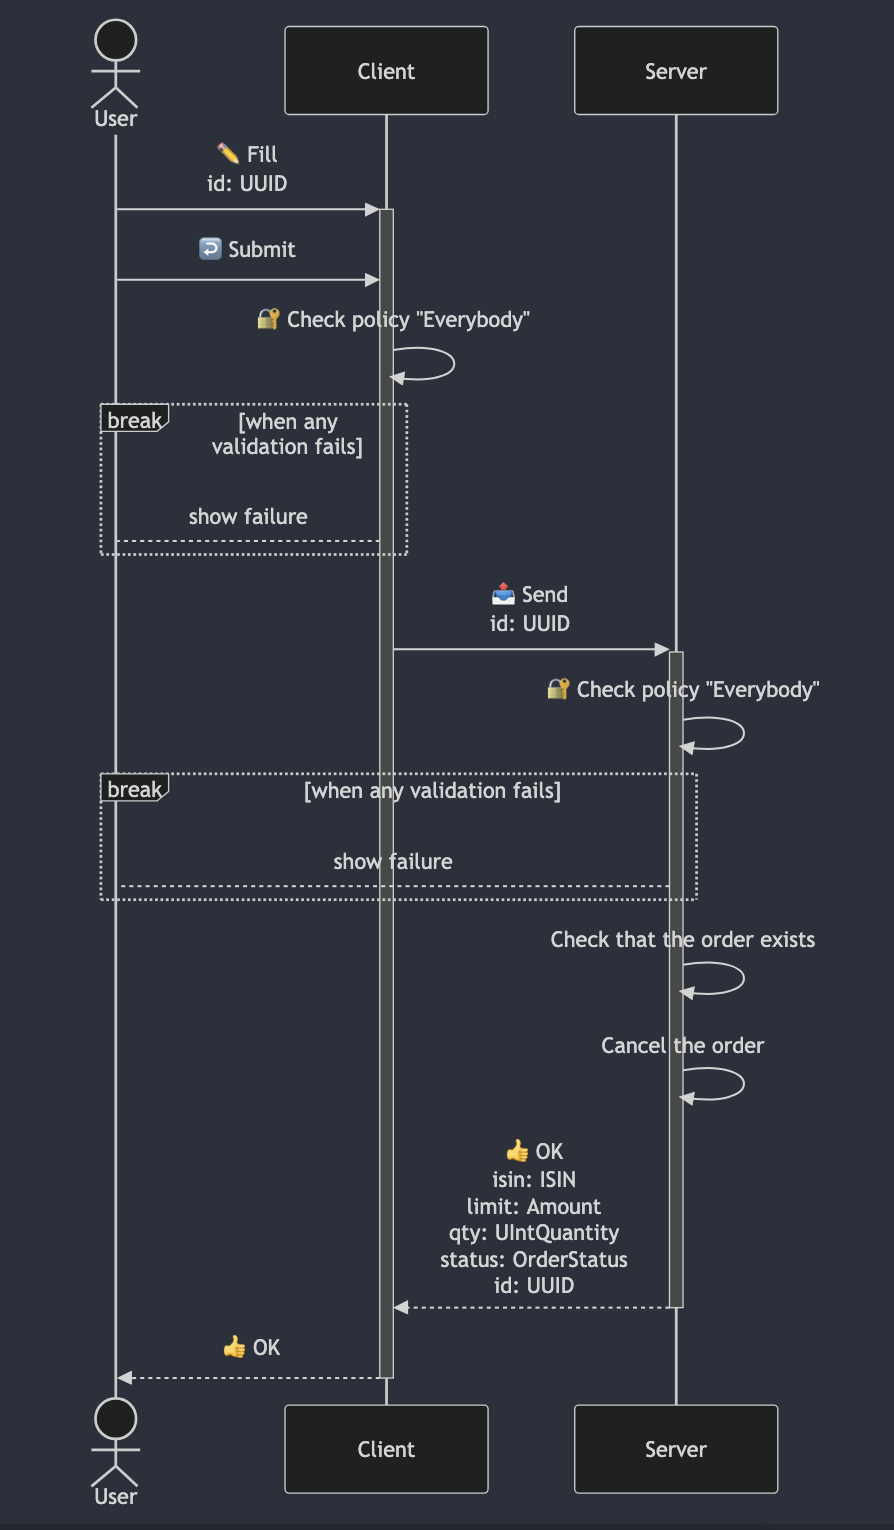
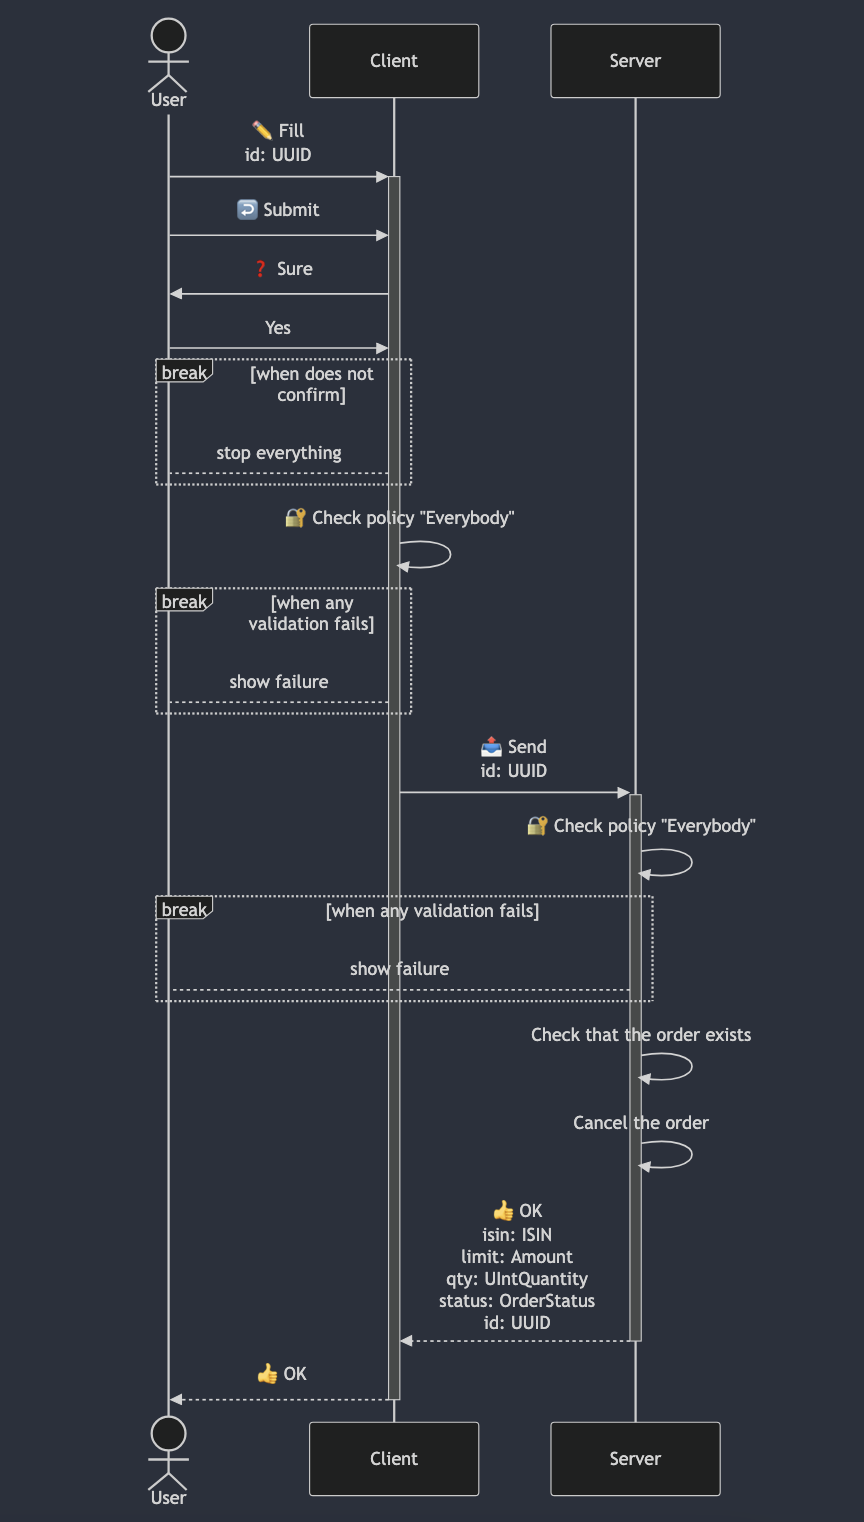
docs: update

Changed region(s): [[0.0938, 0.0, 0.9062, 0.9882]]

diff --git a/examples/supertrader/src/apps/Trading/README.md b/examples/supertrader/src/apps/Trading/README.md
@@ -38,6 +38,11 @@ sequenceDiagram
     actor User
     User->>+Client: ✏ Fill<br/>id: UUID
     User->>Client: ↩ Submit
+    Client->>User: ❓ Sure
+    User->>Client: Yes
+    break when does not confirm
+        Client-->User: stop everything
+    end
     Client->>Client: 🔐 Check policy "Everybody"
     break when any validation fails
         Client-->User: show failure
@@ -78,5 +83,5 @@ sequenceDiagram
 |#|filePath|constName|metadataName|metadataAction|metadataBeta|metadataIcon|metadataNew|metadataSensitive|externalImports|internalImports|ioI|ioIFields|ioOPI0|ioOPI0Fields|ioOPI1|ioOPI1Fields|lifecycleClientPolicy|lifecycleServerPolicy|
 |---|---|---|---|---|---|---|---|---|---|---|---|---|---|---|---|---|---|---|
 |1|/src/ucds/BuyAssetUCD.ts|BuyAssetUCD|BuyAsset|Create||plus|||libmodulor|../manifest.js<br>../lib/TISIN.js<br>../lib/order.js<br>./BuyAssetServerMain.js|BuyAssetInput|isin: UCInputFieldValue&#60;ISIN&#62;<br>limit: UCInputFieldValue&#60;Amount&#62;<br>qty: UCInputFieldValue&#60;UIntQuantity&#62;|BuyAssetOPI0|isin: ISIN<br>limit: Amount<br>qty: UIntQuantity<br>status: OrderStatus<br>id: UUID|||Everybody|Everybody|
-|2|/src/ucds/CancelOrderUCD.ts|CancelOrderUCD|CancelOrder|Delete||circle-xmark|||libmodulor|../lib/order.js<br>../manifest.js<br>./CancelOrderServerMain.js|CancelOrderInput|id: UCInputFieldValue&#60;UUID&#62;|CancelOrderOPI0|isin: ISIN<br>limit: Amount<br>qty: UIntQuantity<br>status: OrderStatus<br>id: UUID|||Everybody|Everybody|
+|2|/src/ucds/CancelOrderUCD.ts|CancelOrderUCD|CancelOrder|Delete||circle-xmark||true|libmodulor|../lib/order.js<br>../manifest.js<br>./CancelOrderServerMain.js|CancelOrderInput|id: UCInputFieldValue&#60;UUID&#62;|CancelOrderOPI0|isin: ISIN<br>limit: Amount<br>qty: UIntQuantity<br>status: OrderStatus<br>id: UUID|||Everybody|Everybody|
 |3|/src/ucds/ListOrdersUCD.ts|ListOrdersUCD|ListOrders|List||list|||libmodulor|../lib/order.js<br>../manifest.js<br>./ListOrdersServerMain.js|ListOrdersInput|id: UCInputFieldValue&#60;UUID&#62;<br>limit: UCInputFieldValue&#60;UIntQuantity&#62;<br>offset: UCInputFieldValue&#60;NumIndex&#62;<br>q: UCInputFieldValue&#60;SearchQuery&#62;|ListOrdersOPI0|isin: ISIN<br>limit: Amount<br>qty: UIntQuantity<br>status: OrderStatus<br>id: UUID|||Everybody|Everybody|
